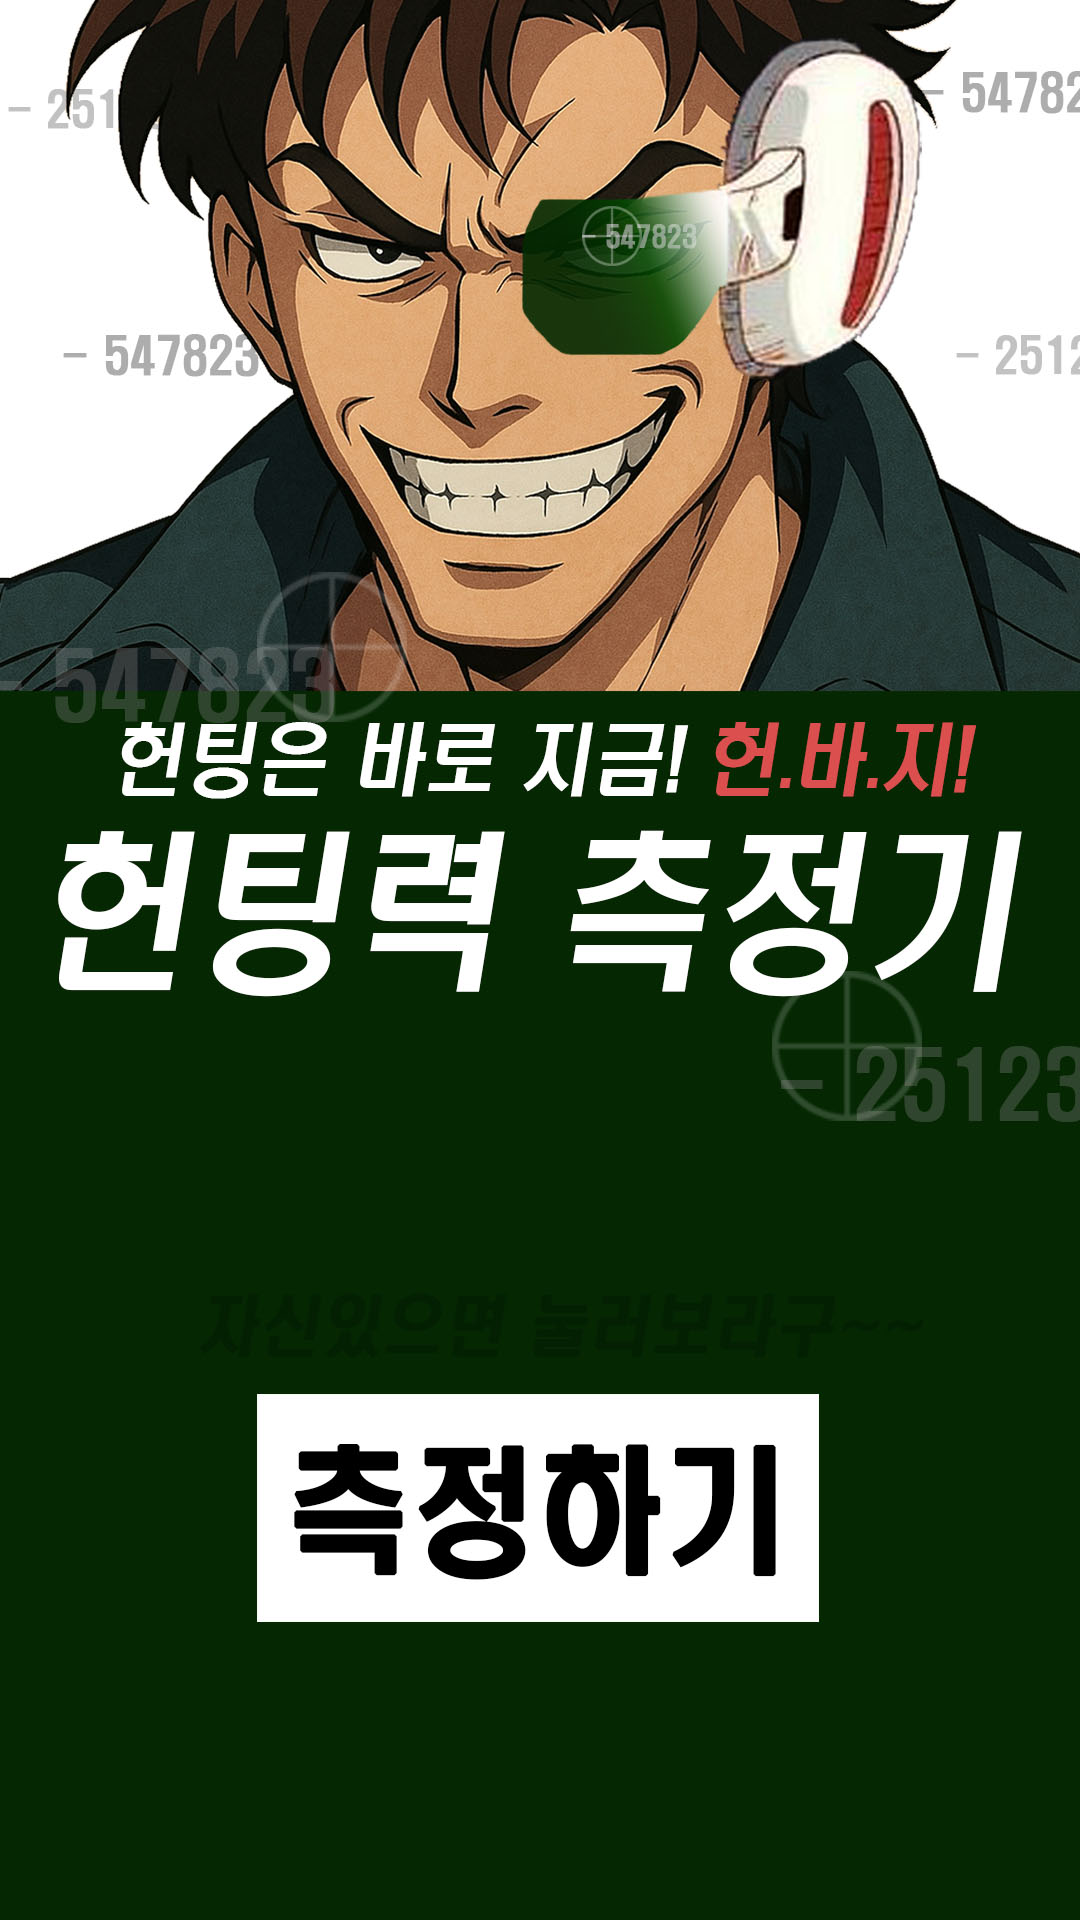
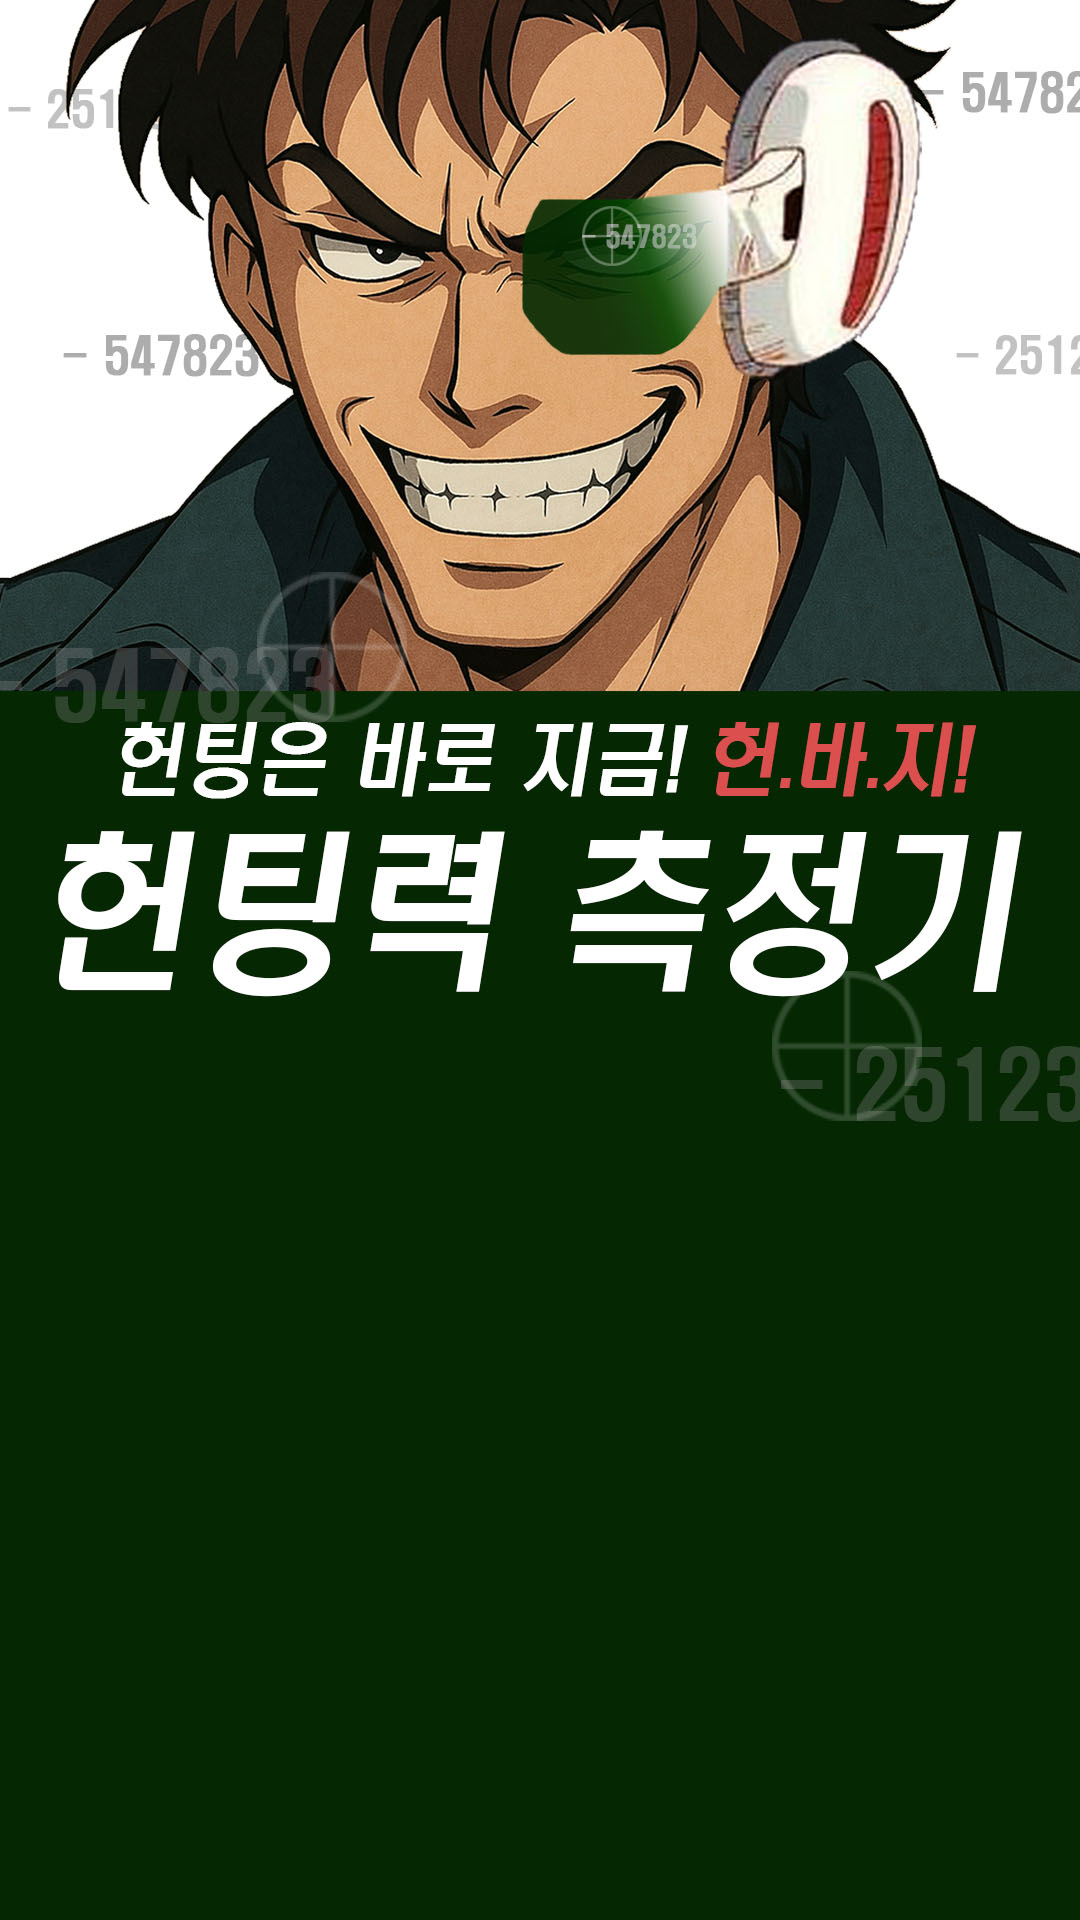
Add files via upload

Changed region(s): [[0.2139, 0.7188, 0.7639, 0.8438]]

diff --git a/index.html b/index.html
@@ -5,14 +5,42 @@
   <meta name="viewport" content="width=device-width, initial-scale=1.0" />
   <title>나의 헌팅 성공률은?</title>
   <style>
-    body {
-      font-family: sans-serif;
-      text-align: center;
-      background-color: #fefefe;
-      padding: 30px;
+    * {
+      margin: 0;
+      padding: 0;
+      box-sizing: border-box;
     }
-    .hidden {
+    body, html {
+      width: 100%;
+      height: 100%;
+      font-family: sans-serif;
+      overflow: hidden;
+    }
+    #startScreen {
+      position: relative;
+      width: 100%;
+      height: 100vh;
+      background: url("첫페이지.jpg") no-repeat center center/cover;
+    }
+    #startBtn {
+      position: absolute;
+      bottom: 80px;
+      left: 50%;
+      transform: translateX(-50%);
+      background: white;
+      color: black;
+      font-size: 24px;
+      font-weight: bold;
+      padding: 12px 30px;
+      border-radius: 8px;
+      border: none;
+      cursor: pointer;
+      box-shadow: 0 4px 10px rgba(0,0,0,0.3);
+    }
+    #mainContent {
       display: none;
+      text-align: center;
+      padding: 30px;
     }
     #resultBox {
       margin-top: 20px;
@@ -29,19 +57,32 @@
   </style>
 </head>
 <body>
-  <h1>📸 나의 헌팅 성공률은?</h1>
-  <input type="file" accept="image/*" id="photoInput" /><br><br>
-  <button onclick="showResult()">결과 보기</button>
-
-  <div id="loading" class="hidden">
-    <img src="https://media.giphy.com/media/3oEjI6SIIHBdRxXI40/giphy.gif" width="150" alt="분석중 애니메이션">
-    <p>분석 중입니다...</p>
+  <!-- 첫 화면 -->
+  <div id="startScreen">
+    <button id="startBtn" onclick="startApp()">측정하기</button>
   </div>
 
-  <div id="resultBox" class="hidden"></div>
-  <div id="funMessage" class="hidden"></div>
+  <!-- 본문 -->
+  <div id="mainContent">
+    <h1>📸 나의 헌팅 성공률은?</h1>
+    <input type="file" accept="image/*" id="photoInput" /><br><br>
+    <button onclick="showResult()">결과 보기</button>
+
+    <div id="loading" class="hidden">
+      <img src="https://media.giphy.com/media/3oEjI6SIIHBdRxXI40/giphy.gif" width="150" alt="분석중 애니메이션">
+      <p>분석 중입니다...</p>
+    </div>
+
+    <div id="resultBox" class="hidden"></div>
+    <div id="funMessage" class="hidden"></div>
+  </div>
 
   <script>
+    function startApp() {
+      document.getElementById('startScreen').style.display = 'none';
+      document.getElementById('mainContent').style.display = 'block';
+    }
+
     function showResult() {
       const photoInput = document.getElementById('photoInput');
       if (!photoInput.files.length) {
